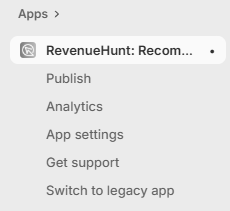
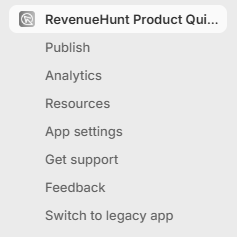
Document the two new Shopify side menu entries, Resources and Feedback
The Shopify side menu gained Resources after Analytics and Feedback after
Get support, so the sidemenu screenshot is replaced and both entries are
added to the list that explains it.

Resources covers the quiz ROI calculator, the benchmark report and the
template library. The recommended apps are described by what the section
is rather than by the three apps showing today, since RevenueHunt rotates
that list.

Feedback covers the form, its four topics and the steer that a blocking
problem belongs with Quiz Copilot and support, not in feedback.

Both pages carry a Built for Shopify note in the other five tabs, so the
support bot does not offer either one to a merchant who cannot reach it.

diff --git a/docs/reference/resources.md b/docs/reference/resources.md
@@ -1,0 +1,61 @@
+---
+description: "The RevenueHunt Resources page: the quiz ROI calculator, the Shopify quizzes benchmark report, free quiz templates and recommended Shopify apps."
+---
+
+# Resources
+
+The Resources page collects the tools, reports and templates that help you plan a quiz. It also lists Shopify apps that work well alongside a quiz.
+
+=== "Shopify"
+
+    Open `Resources` from the app side menu.
+
+    ![manual_shopifyV2_resources](/images/manual_shopifyV2_resources.png)
+
+    **Tools & reports**
+
+    `Quiz ROI calculator` - Estimates the extra monthly revenue a product quiz could add to your store. Enter your traffic, your conversion rate and your average order value. The calculator then shows the projected return, based on benchmark data. Click `Open calculator` to open it.
+
+    `Shopify quizzes benchmark report` - Shows how product quizzes perform across millions of real quiz responses. The report covers which product categories convert highest, and how long a quiz keeps earning. Click `Read the report` to open it.
+
+    `Quiz templates inspiration` - Opens a library of free quiz templates for skincare, beauty, supplements, pet food and other categories. Every template comes with its questions, conditional logic and recommendation rules already set up. Click `Browse templates` to open the library.
+
+    **Recommended apps**
+
+    This section lists Shopify apps that pair well with a quiz, grouped by what they do. `Upsell & recommendations` is one such group. It holds apps that raise average order value with cart upsells, wishlists and pre-orders.
+
+    Each card describes one app. Click `Install app` to open its listing in the Shopify App Store.
+
+    !!! info "The recommended apps change"
+
+        RevenueHunt updates this list, so the apps on your screen can differ from the screenshot. These are apps from other companies, and those companies support them.
+
+=== "Shopify (Legacy)"
+
+    !!! note "Resources is a Built for Shopify feature"
+
+        The legacy app has a Help menu on the Dashboard instead.
+
+=== "WooCommerce"
+
+    !!! note "Resources is a Built for Shopify feature"
+
+        This version of the app has a Help menu on the Dashboard instead.
+
+=== "Magento"
+
+    !!! note "Resources is a Built for Shopify feature"
+
+        This version of the app has a Help menu on the Dashboard instead.
+
+=== "BigCommerce"
+
+    !!! note "Resources is a Built for Shopify feature"
+
+        This version of the app has a Help menu on the Dashboard instead.
+
+=== "Standalone"
+
+    !!! note "Resources is a Built for Shopify feature"
+
+        This version of the app has a Help menu on the Dashboard instead.

diff --git a/docs/reference/feedback.md b/docs/reference/feedback.md
@@ -1,0 +1,62 @@
+---
+description: "Send a bug report, a feature request or a new app idea to the RevenueHunt product team from the Feedback page in the app."
+---
+
+# Feedback
+
+The Feedback page sends a message straight to the RevenueHunt product team. Use it to report a bug, to request a feature, or to suggest a new app.
+
+=== "Shopify"
+
+    Open `Feedback` from the app side menu.
+
+    ![manual_shopifyV2_feedback](/images/manual_shopifyV2_feedback.png)
+
+    `What's this about?` - Choose the topic of your message.
+
+    ![manual_shopifyV2_feedback_topic](/images/manual_shopifyV2_feedback_topic.png)
+
+    - `Bug report` - Something in the app does not work the way it should.
+    - `Feature request` - Something you want the app to do that it does not do yet.
+    - `New app idea` - A product idea for RevenueHunt to build.
+    - `Something else` - Anything the other three topics do not cover.
+
+    `Your message` - Describe what you want to be able to do, and what you are trying to achieve. A concrete example of your store and your customers helps the team more than a general request.
+
+    `Your email` - The address the team replies to. The app fills in your account email, and you can change it.
+
+    `Send feedback` - Click to send the message to the team.
+
+    !!! tip "For a problem that blocks you now, use Quiz Copilot"
+
+        Feedback goes to the product team, not to the support queue, so an answer can take time. When something is broken and blocks you right now, use `Chat with Quiz Copilot` in the [Support](/reference/dashboard/#support) menu. It answers most questions on the spot. When it cannot, [contact customer support](/how-to-guides/contact-customer-support/).
+
+=== "Shopify (Legacy)"
+
+    !!! note "Feedback is a Built for Shopify feature"
+
+        The legacy app has a Help menu on the Dashboard instead.
+
+=== "WooCommerce"
+
+    !!! note "Feedback is a Built for Shopify feature"
+
+        This version of the app has a Help menu on the Dashboard instead.
+
+=== "Magento"
+
+    !!! note "Feedback is a Built for Shopify feature"
+
+        This version of the app has a Help menu on the Dashboard instead.
+
+=== "BigCommerce"
+
+    !!! note "Feedback is a Built for Shopify feature"
+
+        This version of the app has a Help menu on the Dashboard instead.
+
+=== "Standalone"
+
+    !!! note "Feedback is a Built for Shopify feature"
+
+        This version of the app has a Help menu on the Dashboard instead.

diff --git a/docs/reference/index.md b/docs/reference/index.md
@@ -1,5 +1,5 @@
 ---
-description: "Complete RevenueHunt app manual covering the dashboard, quiz builder, plans and pricing, app settings, accessibility, CSS structure and the glossary."
+description: "Complete RevenueHunt app manual covering the dashboard, quiz builder, plans and pricing, app settings, resources, feedback, accessibility, CSS structure and the glossary."
 ---
 
 # App Manual
@@ -44,6 +44,14 @@ See the details of every pricing plan, and upgrade or downgrade your account.
 ## [App settings](/reference/app-settings/)
 
 Adjust your contact details, set up Shopify Markets, change GDPR settings, or connect your SMTP server.
+
+## [Resources](/reference/resources/)
+
+The quiz ROI calculator, the Shopify quizzes benchmark report, a library of free quiz templates, and Shopify apps that pair well with a quiz.
+
+## [Feedback](/reference/feedback/)
+
+Send a bug report, a feature request or a new app idea straight to the RevenueHunt product team.
 
 ## [Accessibility](/reference/accessibility/)
 

diff --git a/docs/reference/dashboard.md b/docs/reference/dashboard.md
@@ -23,9 +23,13 @@ The Dashboard lists every quiz you create.
 
     `Analytics` - Opens the [Analytics tab](/reference/quiz-builder/metrics/#analytics) where you can check the quiz performance.
 
+    `Resources` - Opens the [Resources](/reference/resources/) page with the RevenueHunt tools, reports, quiz templates and recommended apps.
+
     `App settings` - Opens the [App settings](/reference/app-settings/) menu.
 
     `Get support` - Opens the [Support](#support) menu.
+
+    `Feedback` - Opens the [Feedback](/reference/feedback/) page, where you send a bug report, a feature request or an app idea to the team.
 
     `Switch to legacy app` - Click to [switch to the legacy version of the app](/reference/dashboard/#switch-to-legacy). All your progress will be saved when you switch versions.
 
